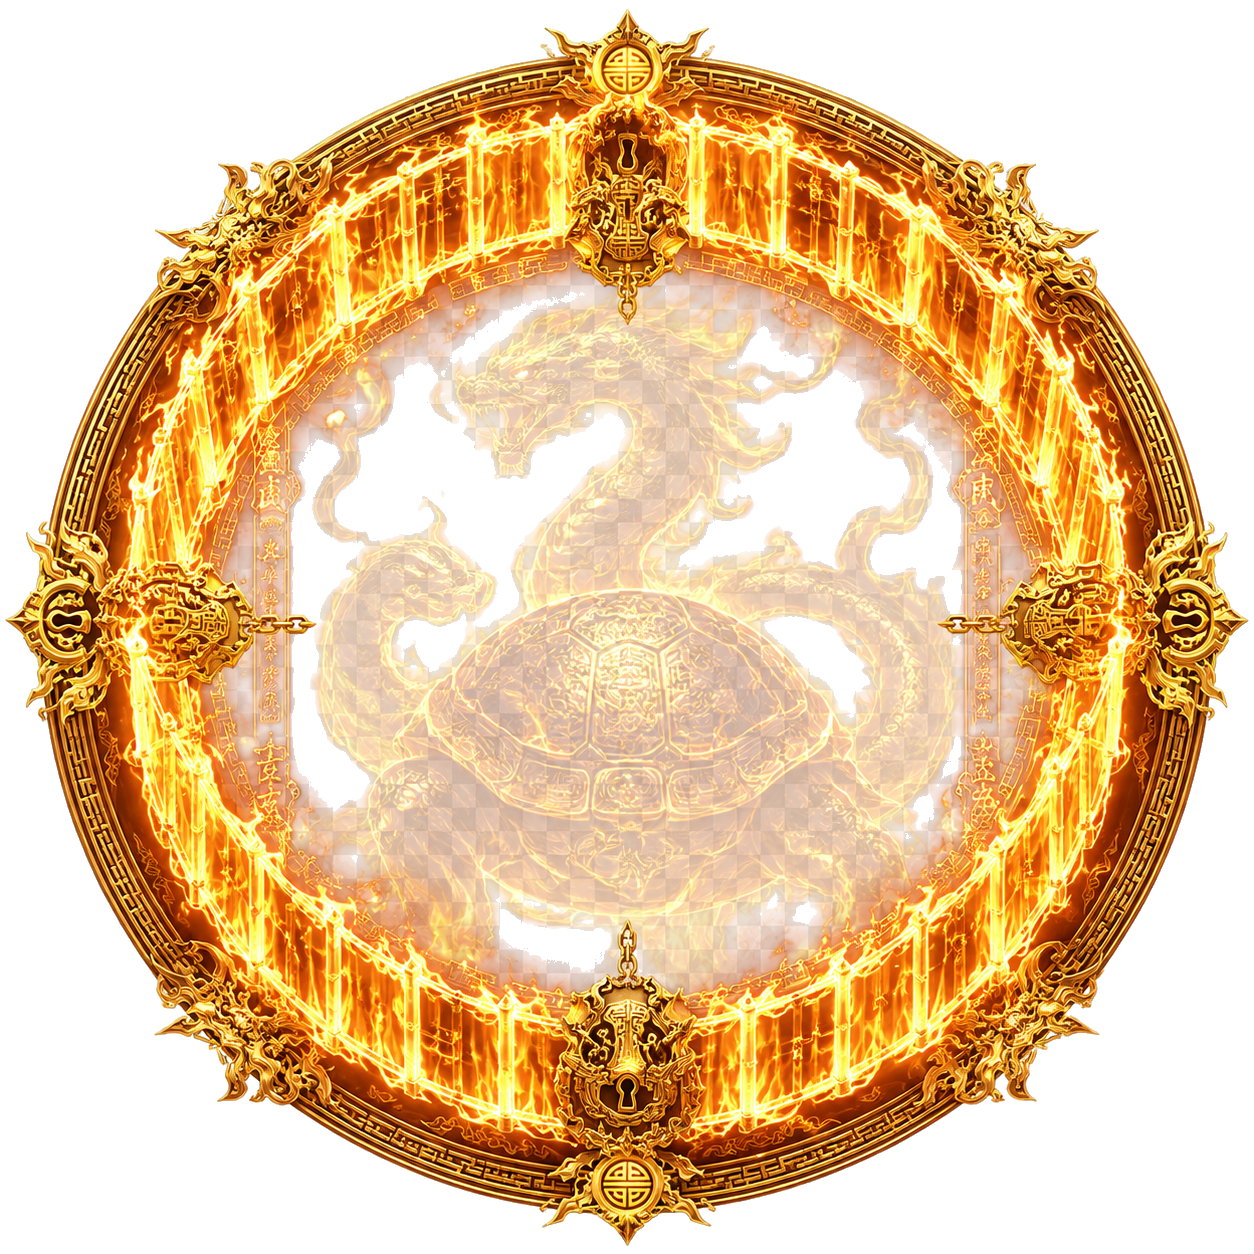
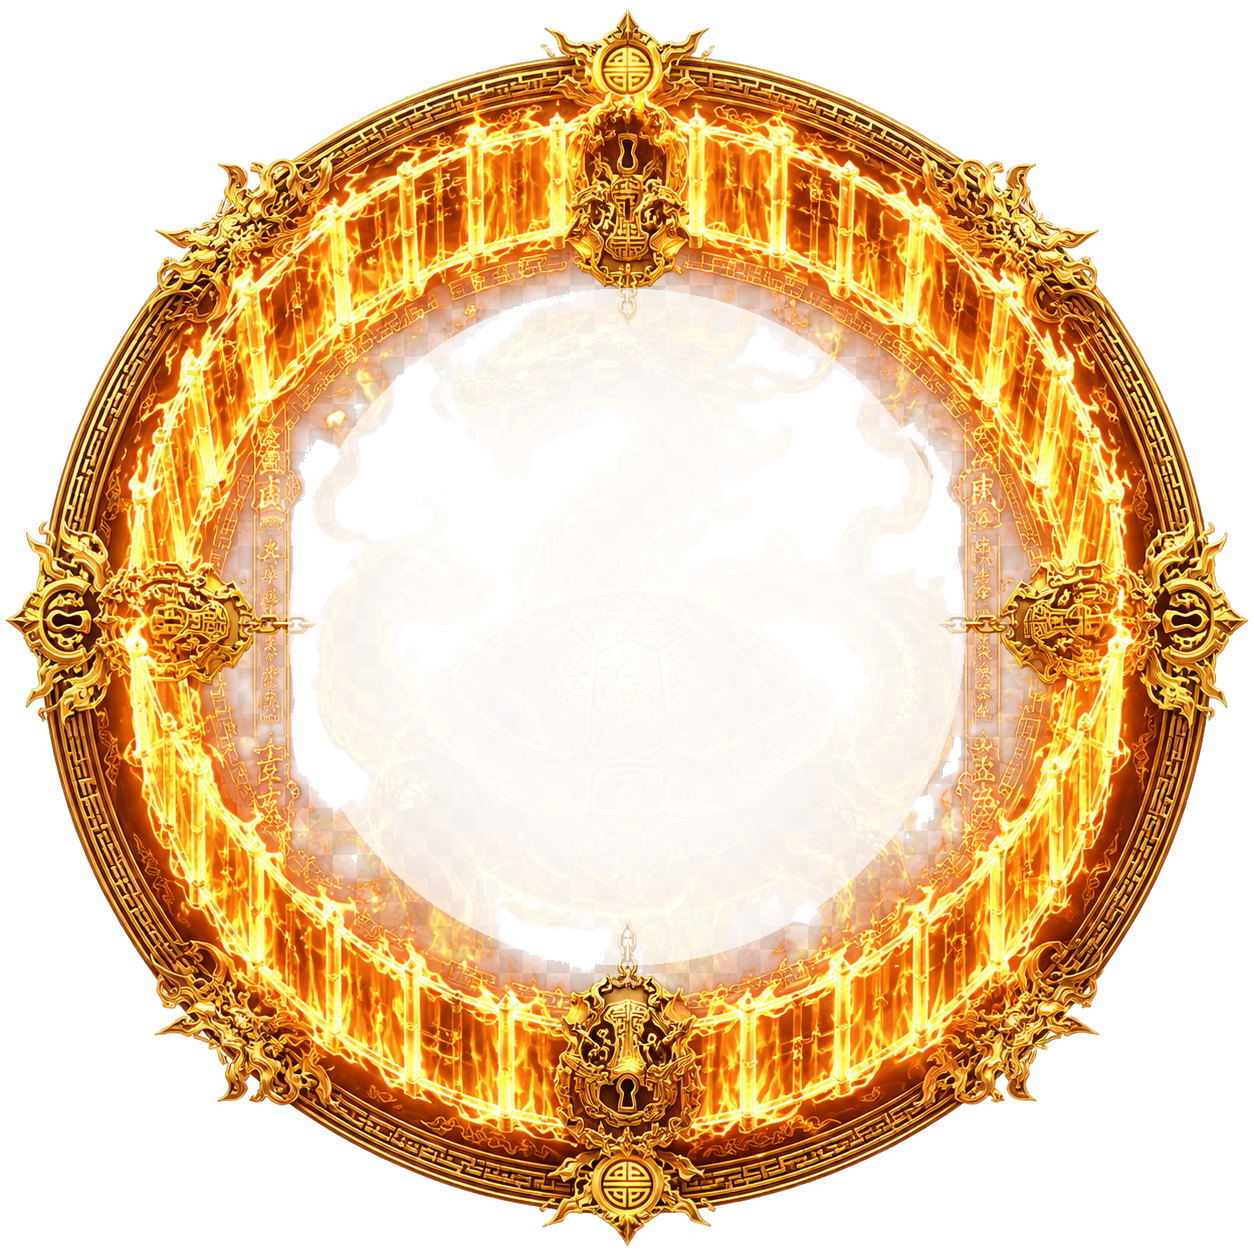
feat: 优化盾六级蓄力释放表现

Changed region(s): [[0.2177, 0.2177, 0.7775, 0.7775]]

diff --git a/game.js b/game.js
@@ -252,6 +252,30 @@ function drawArtWeaponAttackTexture(ctx, weaponId, level, slot, x, y, width, hei
     return true;
 }
 
+function drawArtWeaponAttackTextureAdvanced(ctx, weaponId, level, slot, x, y, width, height, options = {}) {
+    const assets = window.assetRuntime;
+    if (!FEATURE_FLAGS.ENABLE_ART_ASSETS || !FEATURE_FLAGS.ENABLE_ART_EFFECTS || !assets?.getWeaponAttackTexture) return false;
+    const image = assets.getWeaponAttackTexture(weaponId, level, slot);
+    if (!assets.canDraw?.(image)) return false;
+    const angle = options.angle || 0;
+    const alpha = options.alpha === undefined ? 1 : options.alpha;
+    const anchorX = options.anchorX === undefined ? 0.5 : options.anchorX;
+    const anchorY = options.anchorY === undefined ? 0.5 : options.anchorY;
+    ctx.save();
+    ctx.translate(x, y);
+    ctx.rotate(angle);
+    ctx.globalAlpha *= Math.max(0, Math.min(1, alpha));
+    ctx.imageSmoothingEnabled = true;
+    if (options.filter) ctx.filter = options.filter;
+    if (options.shadowBlur) {
+        ctx.shadowBlur = options.shadowBlur;
+        ctx.shadowColor = options.shadowColor || 'rgba(255, 190, 42, 0.9)';
+    }
+    ctx.drawImage(image, -width * anchorX, -height * anchorY, width, height);
+    ctx.restore();
+    return true;
+}
+
 function drawArtUiTexture(ctx, uiId, x, y, width, height, alpha = 1) {
     const assets = window.assetRuntime;
     if (!FEATURE_FLAGS.ENABLE_ART_ASSETS || !FEATURE_FLAGS.ENABLE_ART_UI_SKIN || !assets?.getUiSkin) return false;
@@ -4766,6 +4790,9 @@ class Shield extends Weapon {
         const shieldArtSlot = this.phase === 'charge' ? 'charge' : 'release';
         const shieldArtRotation = this.phase === 'charge' ? -GameRuntime.frame * 0.01 : GameRuntime.frame * 0.02;
         const shieldArtSize = this.currentRadius * 2;
+        if (this.level >= 6 && this.renderLevel6Art(ctx, player, alpha)) {
+            return;
+        }
         if (drawArtWeaponAttackTexture(ctx, 'shield', this.level, shieldArtSlot, this.x, this.y, shieldArtSize, shieldArtSize, shieldArtRotation, alpha, 0.5, 0.5)) {
             return;
         }
@@ -4802,6 +4829,52 @@ class Shield extends Weapon {
 
         // 重置阴影
         ctx.restore();
+    }
+
+    renderLevel6Art(ctx, player, alpha) {
+        const areaScale = 1 + (player.modifiers.areaMulti || 0);
+        const effectiveMaxRadius = this.maxRadius * areaScale;
+
+        if (this.phase === 'charge') {
+            const rawProgress = Math.min(1, this.chargeTimer / Math.max(0.001, this.chargeDuration));
+            const fastProgress = 1 - Math.pow(1 - rawProgress, 3);
+            const drawSize = effectiveMaxRadius * 2 * (0.42 + fastProgress * 0.88);
+            return drawArtWeaponAttackTextureAdvanced(ctx, 'shield', 6, 'charge', this.x, this.y, drawSize, drawSize, {
+                alpha: Math.min(1, 0.42 + fastProgress * 0.52),
+                angle: 0,
+                anchorX: 0.5,
+                anchorY: 0.56,
+                shadowBlur: 22 + fastProgress * 14,
+                shadowColor: 'rgba(255, 174, 30, 0.9)'
+            });
+        }
+
+        if (this.phase === 'explode') {
+            const rawProgress = Math.min(1, this.explodeTimer / Math.max(0.001, this.explodeDuration));
+            const borderSize = this.currentRadius * 2.16;
+            const innerSize = borderSize * 0.82;
+            const innerAlpha = Math.max(0.16, alpha * (0.46 - rawProgress * 0.16));
+            const drewInner = drawArtWeaponAttackTextureAdvanced(ctx, 'shield', 6, 'charge', this.x, this.y, innerSize, innerSize, {
+                alpha: innerAlpha,
+                angle: 0,
+                anchorX: 0.5,
+                anchorY: 0.56,
+                filter: `blur(${Math.max(2, 5 - rawProgress * 2)}px)`,
+                shadowBlur: 10,
+                shadowColor: 'rgba(255, 170, 32, 0.55)'
+            });
+            const drewRelease = drawArtWeaponAttackTextureAdvanced(ctx, 'shield', 6, 'release', this.x, this.y, borderSize, borderSize, {
+                alpha: Math.min(1, alpha * 1.18),
+                angle: 0,
+                anchorX: 0.5,
+                anchorY: 0.5,
+                shadowBlur: 18,
+                shadowColor: 'rgba(255, 205, 72, 0.9)'
+            });
+            return drewInner || drewRelease;
+        }
+
+        return false;
     }
 
     // 属性更新后刷新 - 不需要缓存，留空保持接口兼容
